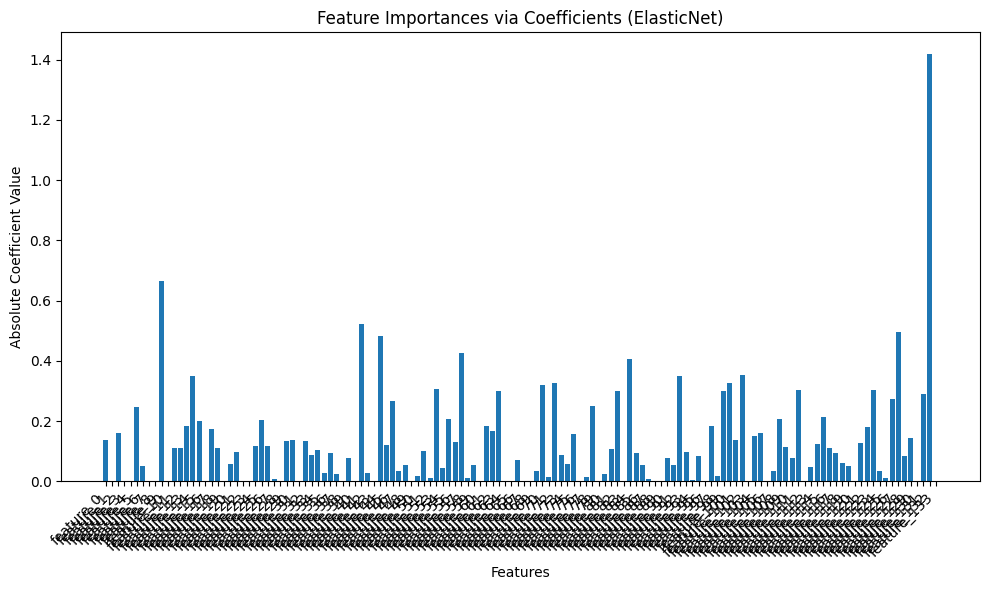
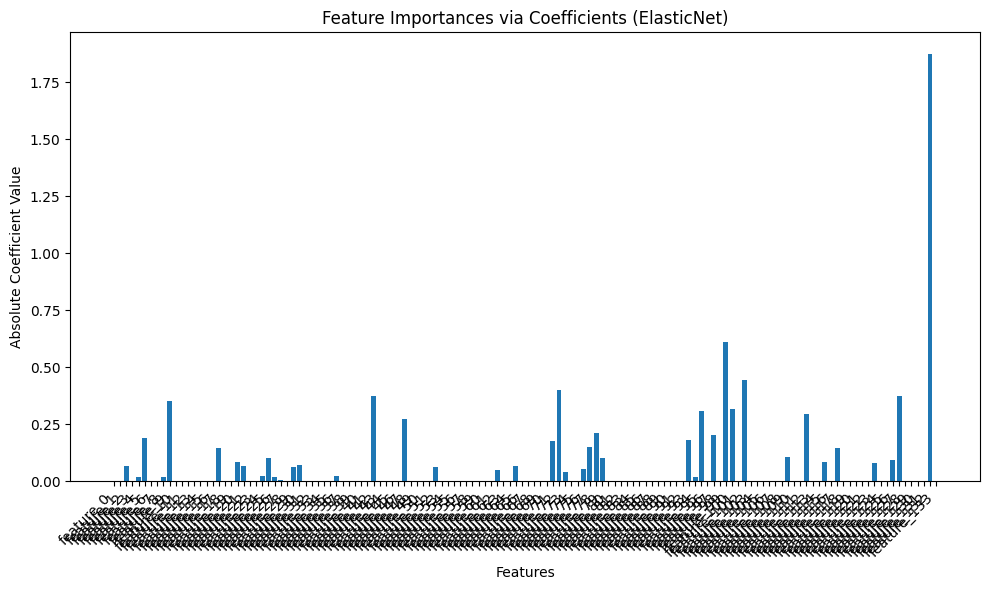
new commit

diff --git a/src/functions.py b/src/functions.py
@@ -5,7 +5,7 @@ import pandas as pd
 import matplotlib.pyplot as plt
 import seaborn as sns
 import joblib
-from sklearn.model_selection import RepeatedKFold
+from sklearn.linear_model import Lasso
 from sklearn.metrics import mean_squared_error, mean_absolute_error, r2_score
 from sklearn.linear_model import ElasticNet
 from sklearn.metrics import mean_squared_error
@@ -90,6 +90,49 @@ def compute_confidence_interval(metric_scores, alpha=0.05):
     upper = np.percentile(metric_scores, 100 * (1 - alpha/2))
     return lower, upper
 
+def stability_selection(X, y, n_iterations=100, threshold=0.5, alpha=0.1):
+    """
+    Perform stability selection using ElasticNet.
+
+    Parameters:
+        X (np.array): Feature matrix for the development set.
+        y (np.array): Target vector for the development set.
+        n_iterations (int): Number of bootstrap iterations.
+        threshold (float): Minimum selection frequency required for a feature to be selected.
+        alpha (float): Regularization strength for Lasso.
+
+    Returns:
+        stable_features (np.array): Indices of features with selection frequency above threshold.
+        selection_frequency (np.array): Frequency of selection for each feature.
+    """
+    n_samples, n_features = X.shape
+    selected_counts = np.zeros(n_features)
+
+    for i in range(n_iterations):
+        # Bootstrap sample with replacement
+        indices = np.random.choice(n_samples, size=n_samples, replace=True)
+        X_boot = X[indices]
+        y_boot = y[indices]
+        
+        model = Lasso(alpha=alpha, random_state=i)
+        model.fit(X_boot, y_boot)
+        
+        # Increment count for features with non-zero coefficients
+        selected_counts += (np.abs(model.coef_) > 1e-5)
+
+    # Calculate the selection frequency for each feature
+    selection_frequency = selected_counts / n_iterations
+    stable_features = np.where(selection_frequency >= threshold)[0]
+
+    return stable_features, selection_frequency
+
+
+
+
+
+
+
+##########################
 def feature_selection(model, X_train, y_train, X_test, y_test):
     """
     Perform feature selection using ElasticNet's built-in feature importance
